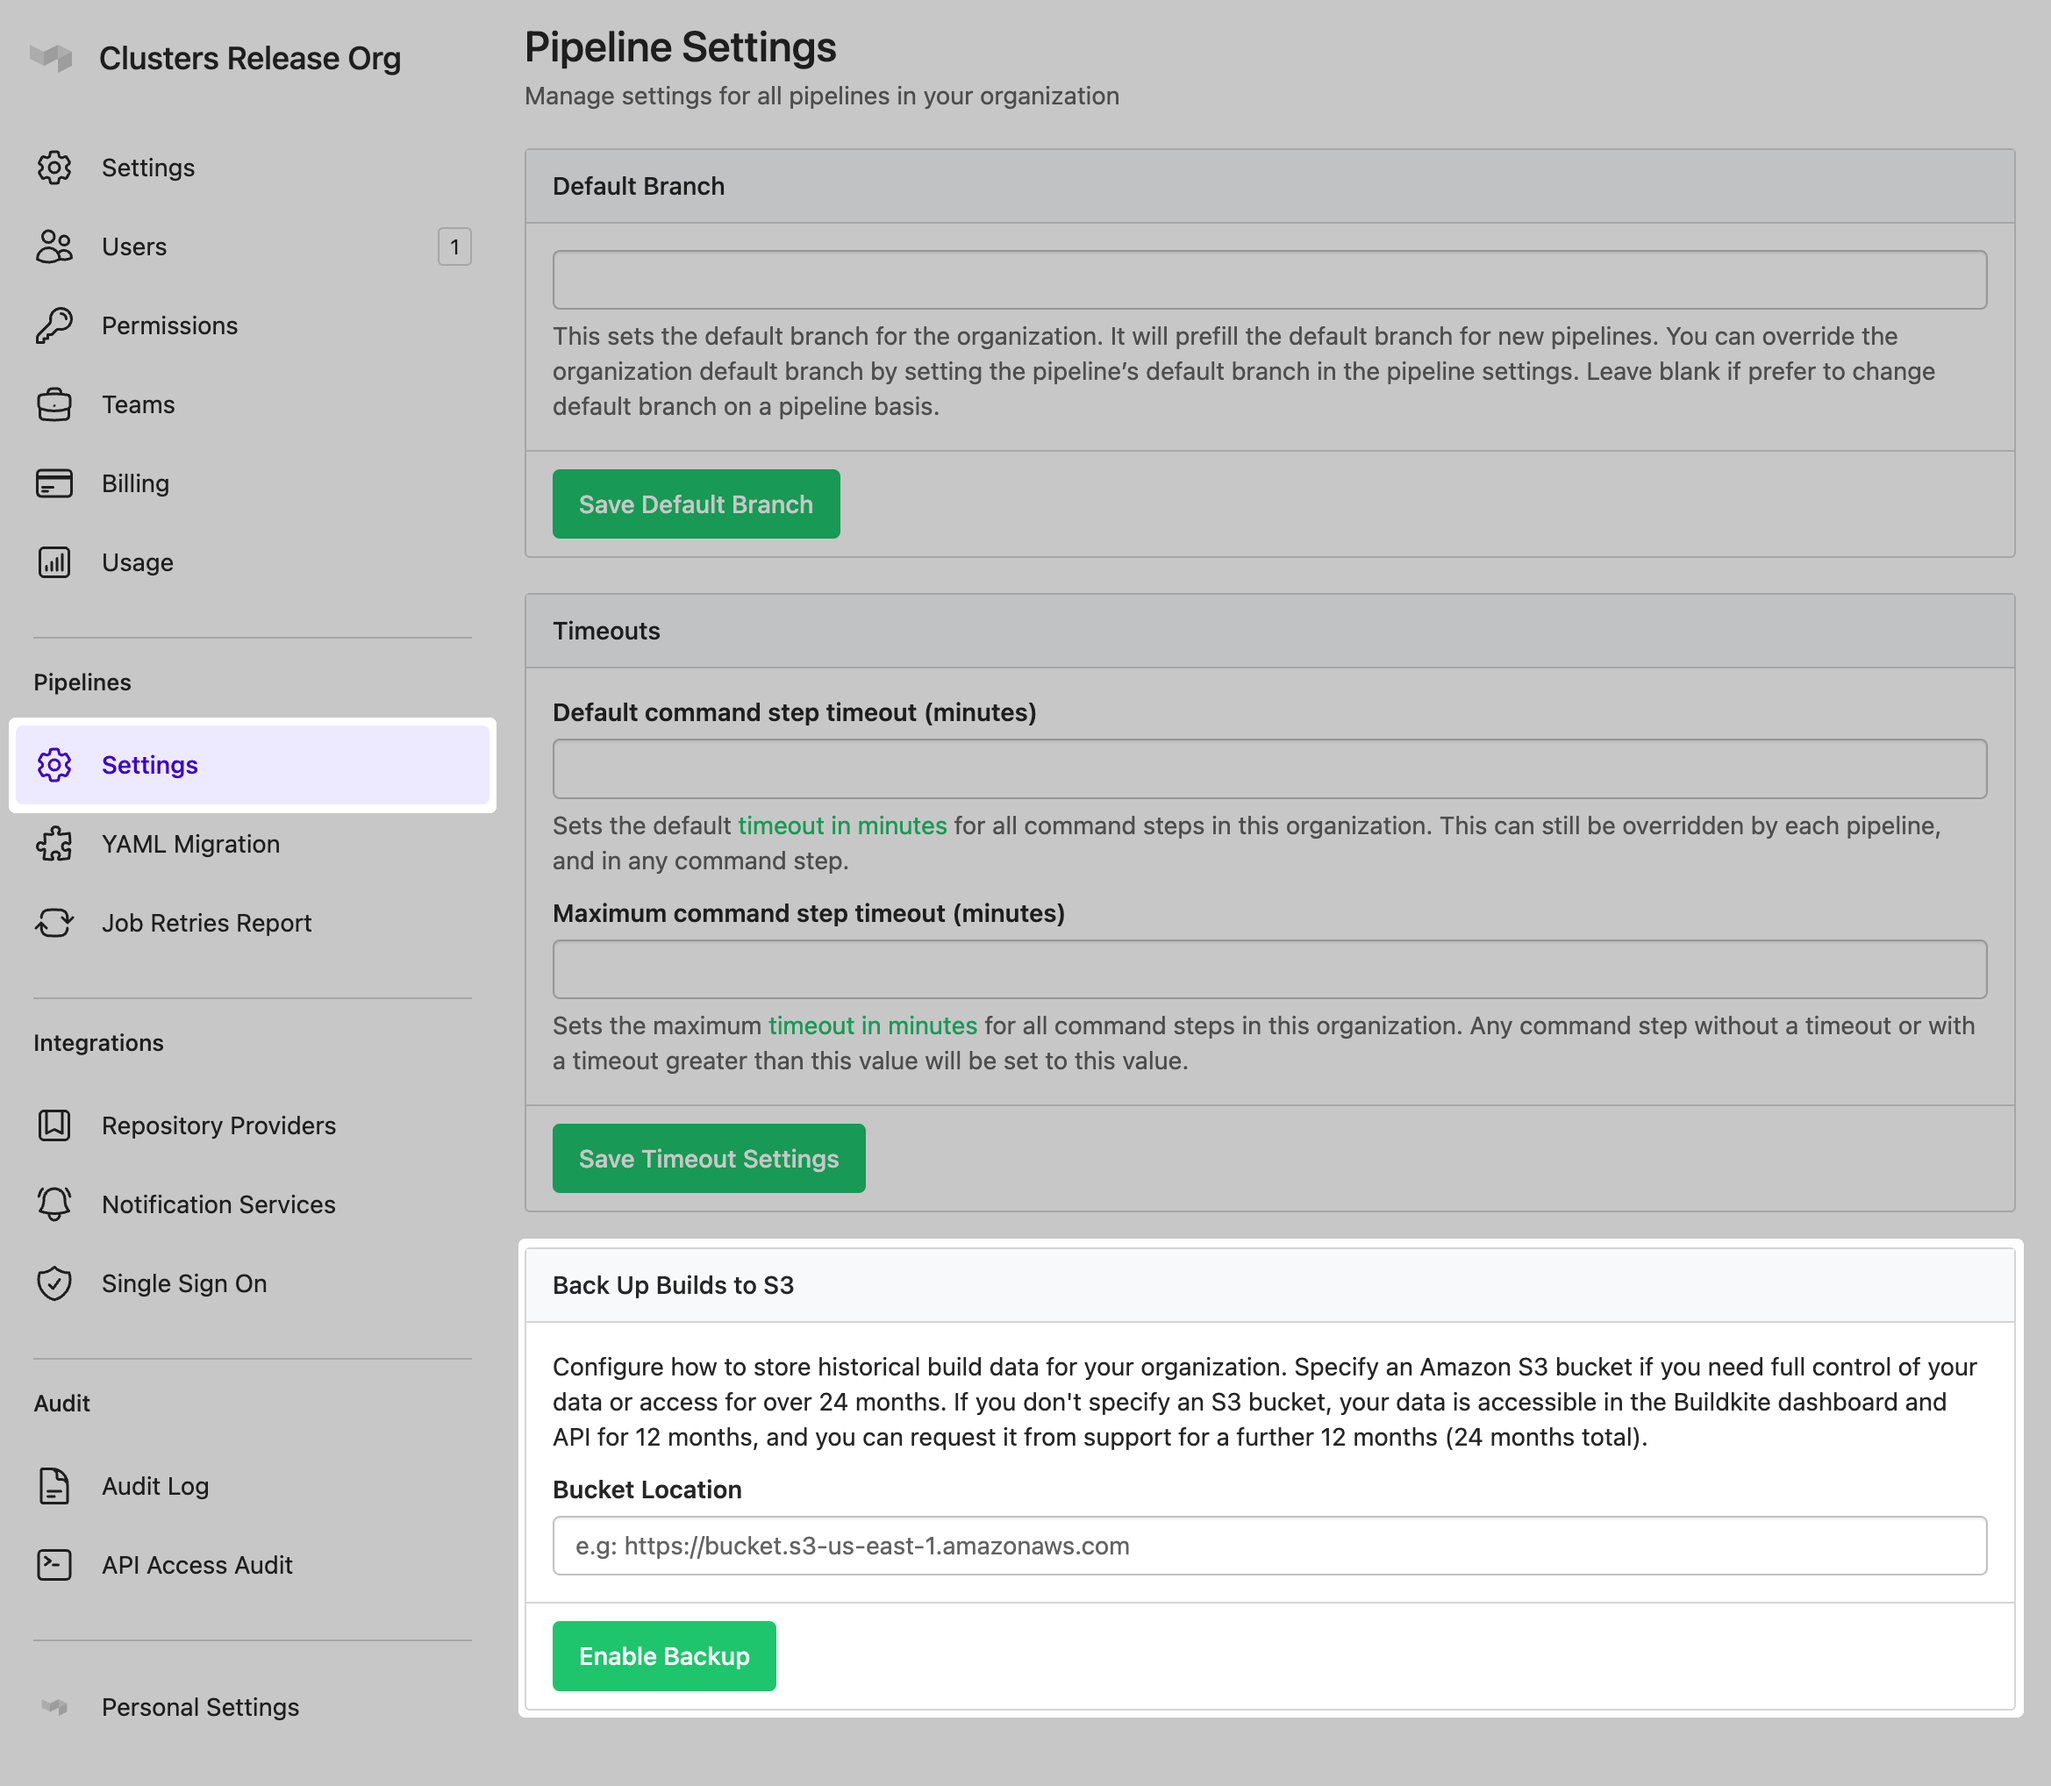
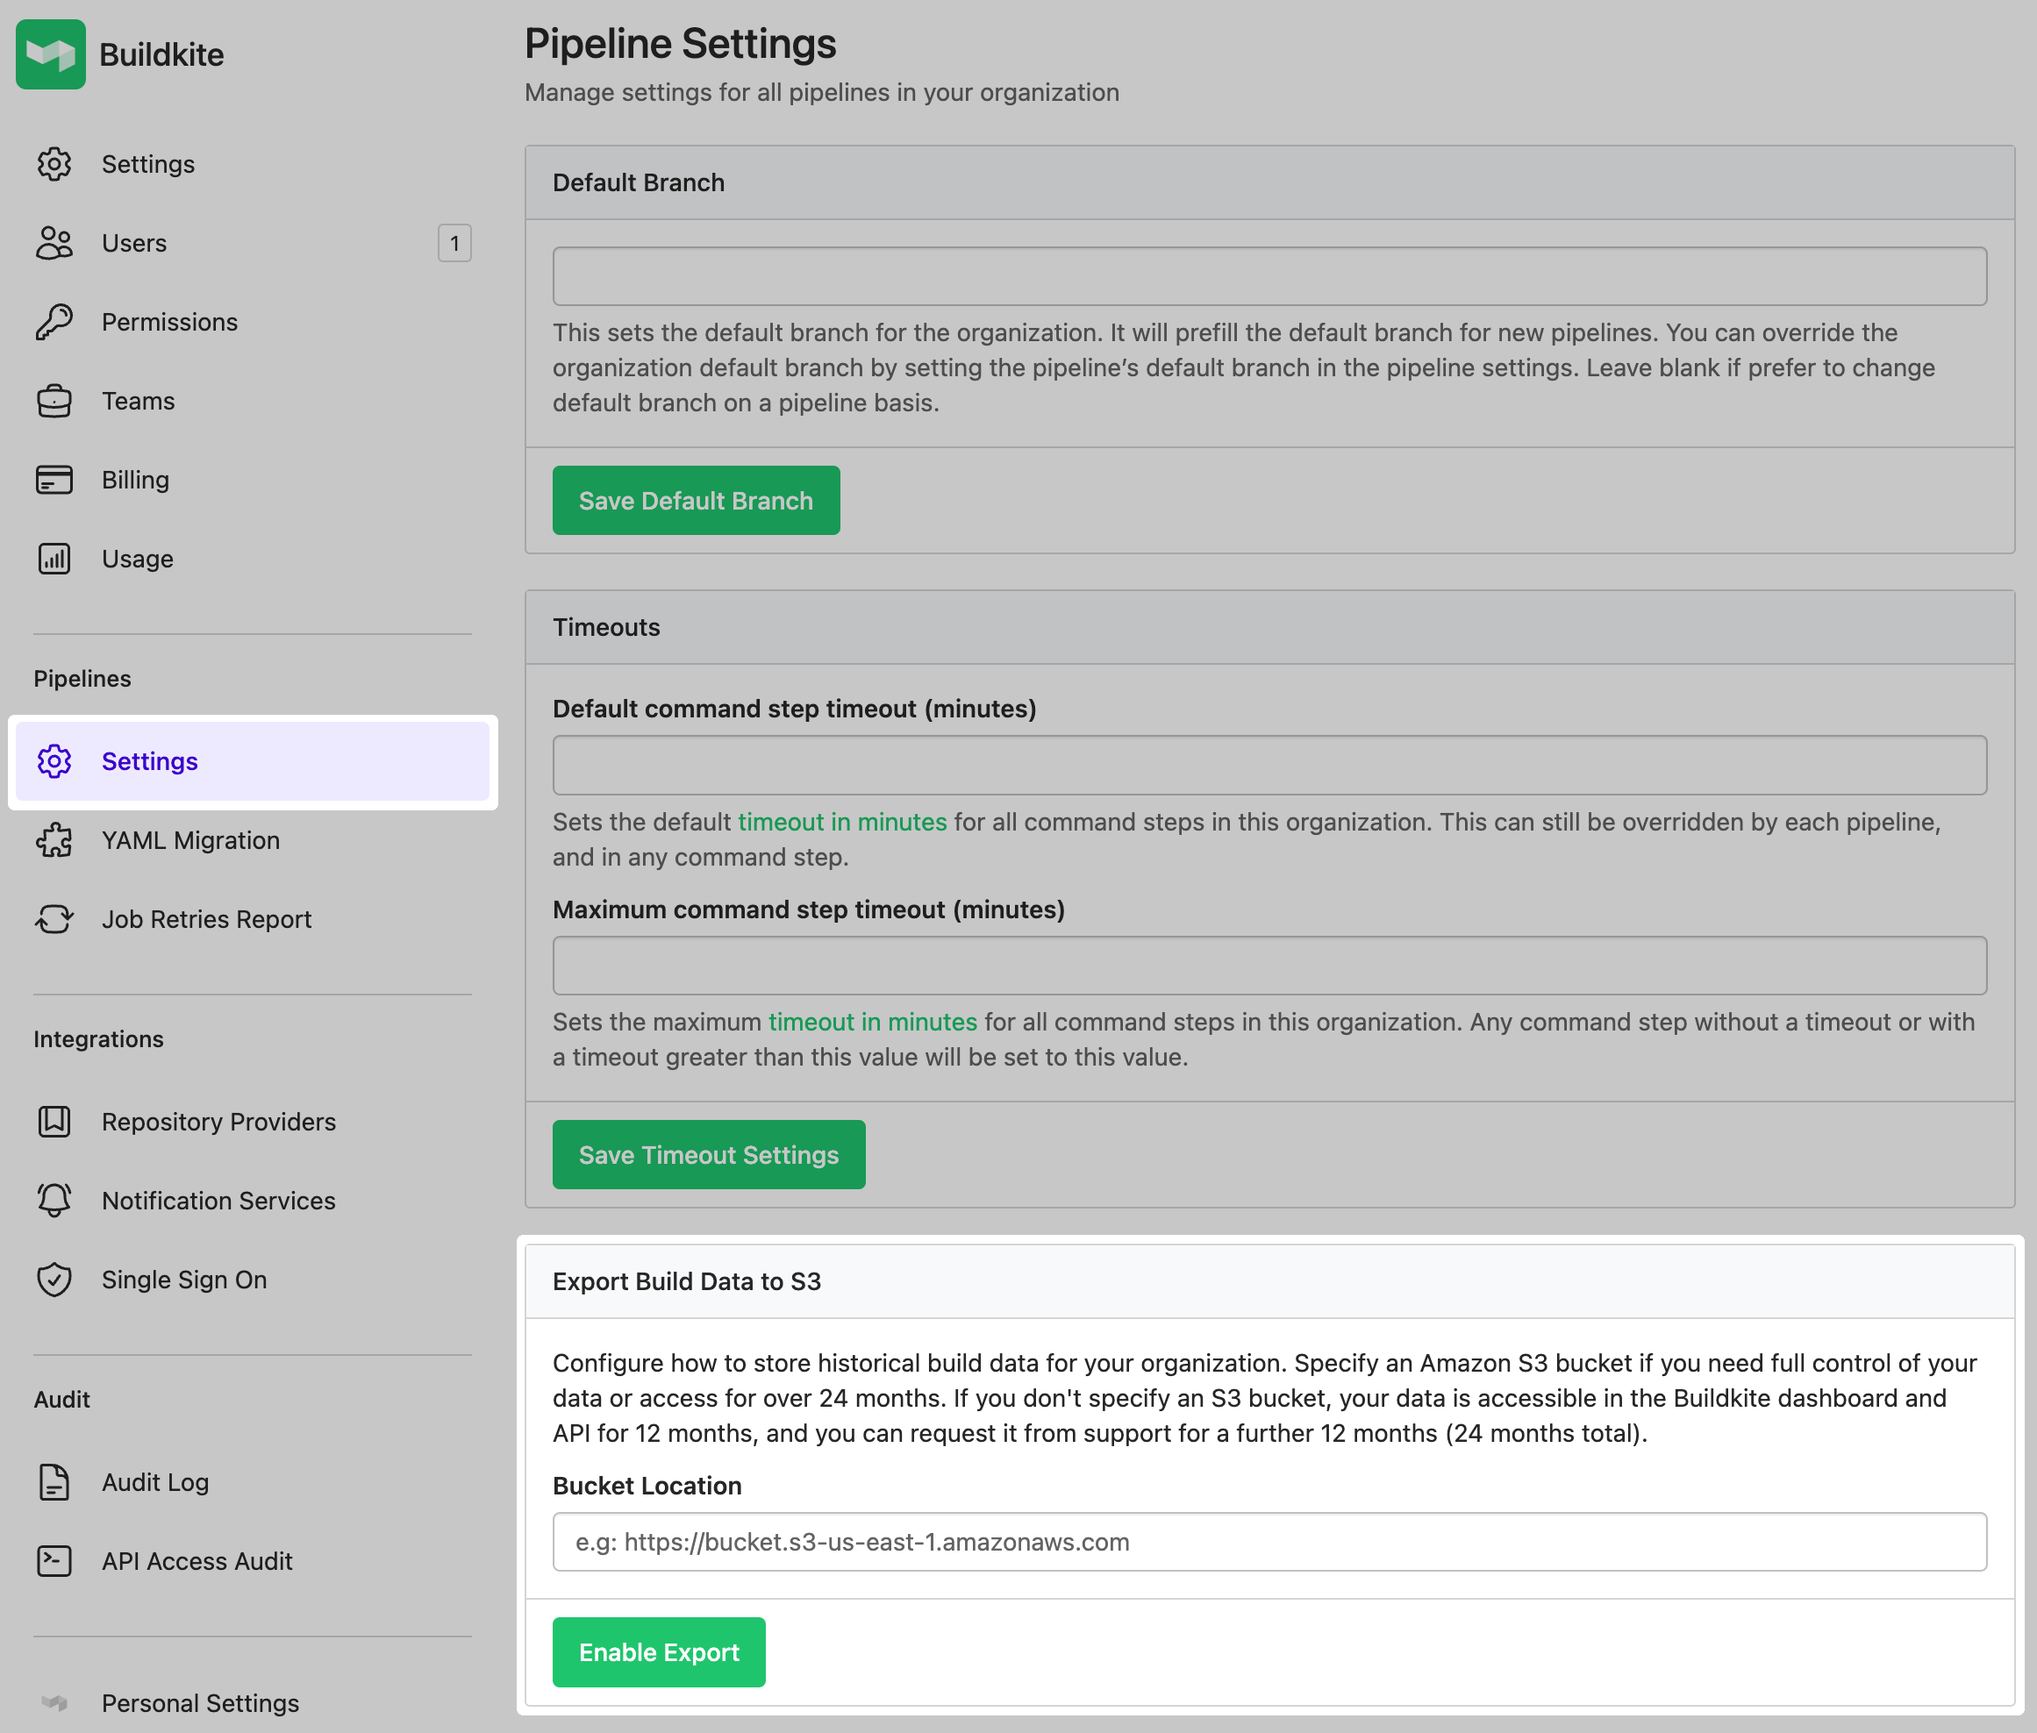
Update Build backup -> Build export

diff --git a/pages/pipelines/build_retention.md b/pages/pipelines/build_retention.md
@@ -57,21 +57,23 @@ up to the maximum build retention period your plan offers.
 
 <%= image "builds.png", width: 1404/2, height: 1608/2, alt: "Screenshot of the 'Build' settings" %>
 
-## Configuring build backups
+## Configuring build export
 
 > 📘 Enterprise feature
-> Build backups is only available on an [Enterprise](https://buildkite.com/pricing) plan.
+> Build export is only available on an [Enterprise](https://buildkite.com/pricing) plan.
 
 If you require to keep builds longer than your [Buildkite plan](https://buildkite.com/pricing)
-allows you can setup build backups using your private Amazon S3 bucket.
+allows you can setup build export using your private Amazon S3 bucket. Buildkite will export json
+representations of your builds to your private Amazon S3 bucket as they are removed per the build
+retention period for your [Buildkite plan](https://buildkite.com/pricing).
 
 Select organization settings
 
-<%= image "organization-settings.png", width: 1404/2, height: 1608/2, alt: "Screenshot of the 'Build' settings" %>
+<%= image "organization-settings.png", alt: "Screenshot of the organization settings button" %>
 
 From the Organization Settings menu, select Settings under the Pipelines heading
 
-<%= image "organization-pipeline-settings.png", width: 1404/2, height: 1608/2, alt: "Screenshot of the 'Build' settings" %>
+<%= image "organization-pipeline-settings.png", alt: "Screenshot of the organization pipeline settings" %>
 
-Then, under the *Back Up Builds to S3 pane*, you can input your private Amazon S3 bucket location and
-click *Enable Backup*.
+Then, under the *Export Build Data to S3 pane*, you can input your private Amazon S3 bucket location and
+click *Enable Export*.
